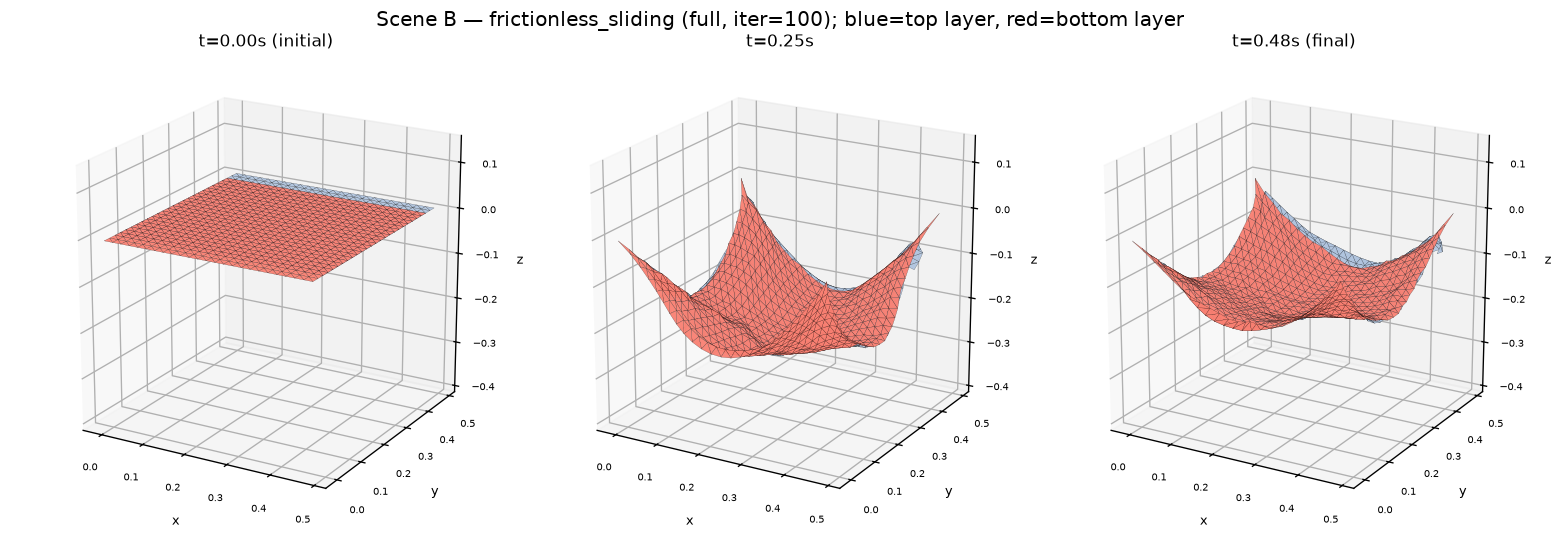
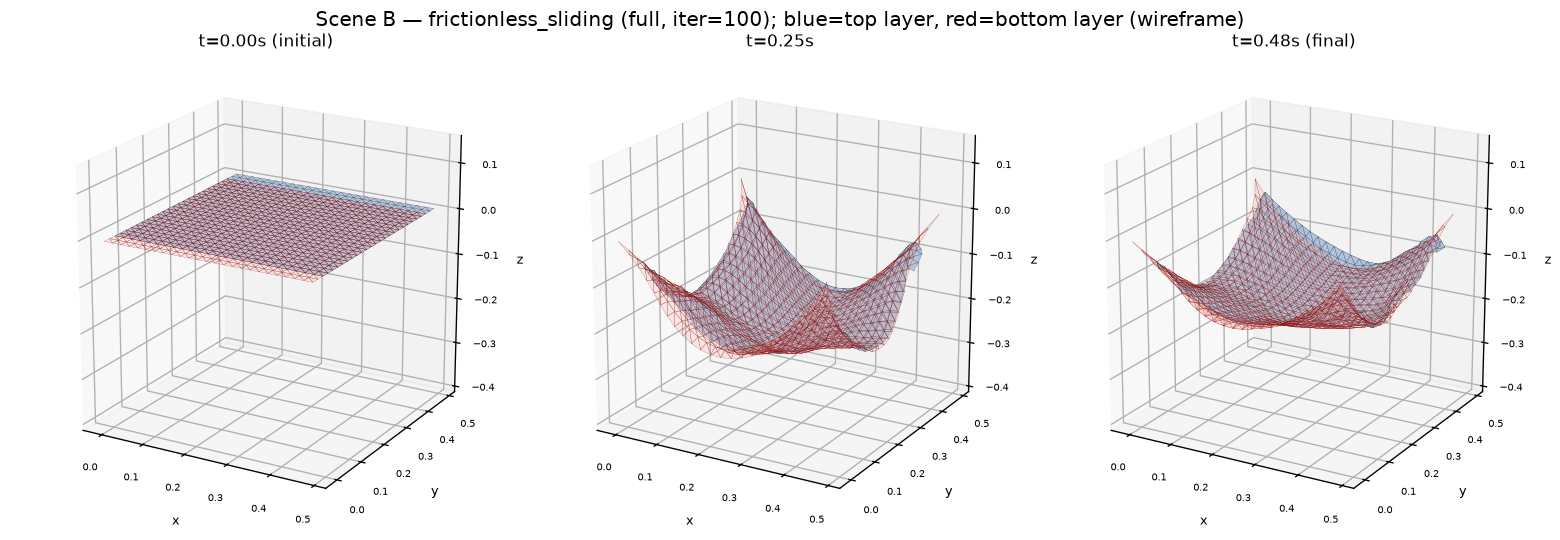
figure 추가

diff --git a/scripts/capture_scene_screenshots.py b/scripts/capture_scene_screenshots.py
@@ -145,17 +145,19 @@ def _set_equal_axes(ax, pts: np.ndarray, pad: float = 0.1) -> None:
     ax.set_box_aspect((1, 1, 1))
 
 
-def _add_mesh(ax, q: np.ndarray, tris: np.ndarray, facecolor: str) -> None:
+def _add_mesh(ax, q: np.ndarray, tris: np.ndarray, facecolor: str, alpha: float = 0.95,
+              edgecolor: str = "k") -> None:
     if len(tris) == 0:
         return
     verts = q[tris]
-    poly = Poly3DCollection(verts, facecolor=facecolor, edgecolor="k", linewidths=0.1, alpha=0.95)
+    poly = Poly3DCollection(verts, facecolor=facecolor, edgecolor=edgecolor, linewidths=0.1, alpha=alpha)
     ax.add_collection3d(poly)
 
 
 def _render_scene(out_name: str, title: str, frames: dict, tri_indices: np.ndarray,
                    labels: dict, camera: tuple[float, float],
-                   layer_masks: tuple[np.ndarray, np.ndarray] | None = None) -> None:
+                   layer_masks: tuple[np.ndarray, np.ndarray] | None = None,
+                   bottom_alpha: float = 0.95, bottom_edgecolor: str = "k") -> None:
     all_pts = np.concatenate(list(frames.values()), axis=0)
     frame_nums = sorted(frames.keys())
 
@@ -167,7 +169,8 @@ def _render_scene(out_name: str, title: str, frames: dict, tri_indices: np.ndarr
             _add_mesh(ax, q, tri_indices, facecolor="lightsteelblue")
         else:
             mask_top, mask_bottom = layer_masks
-            _add_mesh(ax, q, tri_indices[mask_bottom], facecolor="salmon")
+            _add_mesh(ax, q, tri_indices[mask_bottom], facecolor="salmon",
+                      alpha=bottom_alpha, edgecolor=bottom_edgecolor)
             _add_mesh(ax, q, tri_indices[mask_top], facecolor="lightsteelblue")
         _set_equal_axes(ax, all_pts)
         ax.view_init(elev=camera[0], azim=camera[1])
@@ -224,6 +227,8 @@ def main() -> None:
         labels={0: "t=0.00s (initial)", 15: "t=0.25s", 29: "t=0.48s (final)"},
         camera=CAMERA["B"],
         layer_masks=(mask_top, mask_bottom),
+        bottom_alpha=0.15,
+        bottom_edgecolor="darkred",
     )
 
     # --- Scene C: separating_contact (30 frames = 0.5s) ---

diff --git a/docs/research_notes/vbd_damping_ablation_report_with_figures.md b/docs/research_notes/vbd_damping_ablation_report_with_figures.md
@@ -129,7 +129,7 @@ For each scene × iteration count, four variants were run:
 
 ![Scene B mesh snapshots at t=0.00s, 0.25s, 0.48s](figures/scenes/scene_B_frictionless_sliding.png)
 
-**Figure 4.** Scene B (`frictionless_sliding`) mesh snapshots at t=0.00s, 0.25s, and 0.48s (full variant, iter=100). Blue = top layer (free, 625 vertices), red/salmon = bottom layer (625 vertices, pinned at its four corners). At t=0 the two layers are nearly flat and separated by 0.04m. By t=0.25s both layers have sagged under gravity into a bowl shape, and the top (blue) layer has already settled into the bottom of the bowl formed by the pinned bottom (red) layer — i.e., self-contact has engaged. By t=0.48s the configuration is essentially static, matching the near-zero `end_of_step/kinetic_energy` (≈1.28J) reported in §4.1. The viewing angle makes the blue layer mostly hidden behind/inside the red layer's bowl, which is itself evidence of the sustained contact between the two layers described in §2.4 ("Sustained, ~400 pairs").
+**Figure 4.** Scene B (`frictionless_sliding`) mesh snapshots at t=0.00s, 0.25s, and 0.48s (full variant, iter=100). Blue = top layer (free, 625 vertices, solid fill), red/salmon = bottom layer (625 vertices, pinned at its four corners, rendered as a semi-transparent wireframe so the nested blue layer remains visible underneath/inside it). At t=0 the two layers are nearly flat and separated by 0.04m. By t=0.25s both layers have sagged under gravity into matching bowl shapes, and the solid blue surface is visible nested just inside the red wireframe bowl — i.e., self-contact has engaged. The top (free) layer's z-range (−0.187 to −0.028 m) sits almost entirely within the bottom (pinned) layer's wider z-range (−0.187 to 0.0 m, the upper bound set by its pinned corners), confirming that the blue layer has settled into the bowl formed by the red layer. By t=0.48s the configuration is essentially static, matching the near-zero `end_of_step/kinetic_energy` (≈1.28J) reported in §4.1, with the blue surface still conforming closely to the inner contour of the red wireframe bowl. This nested-bowl geometry is the direct visual evidence of the sustained contact between the two layers described in §2.4 ("Sustained, ~400 pairs").
 
 ### 4.1 Energy Decomposition at Final Frame (iter=100)
 
